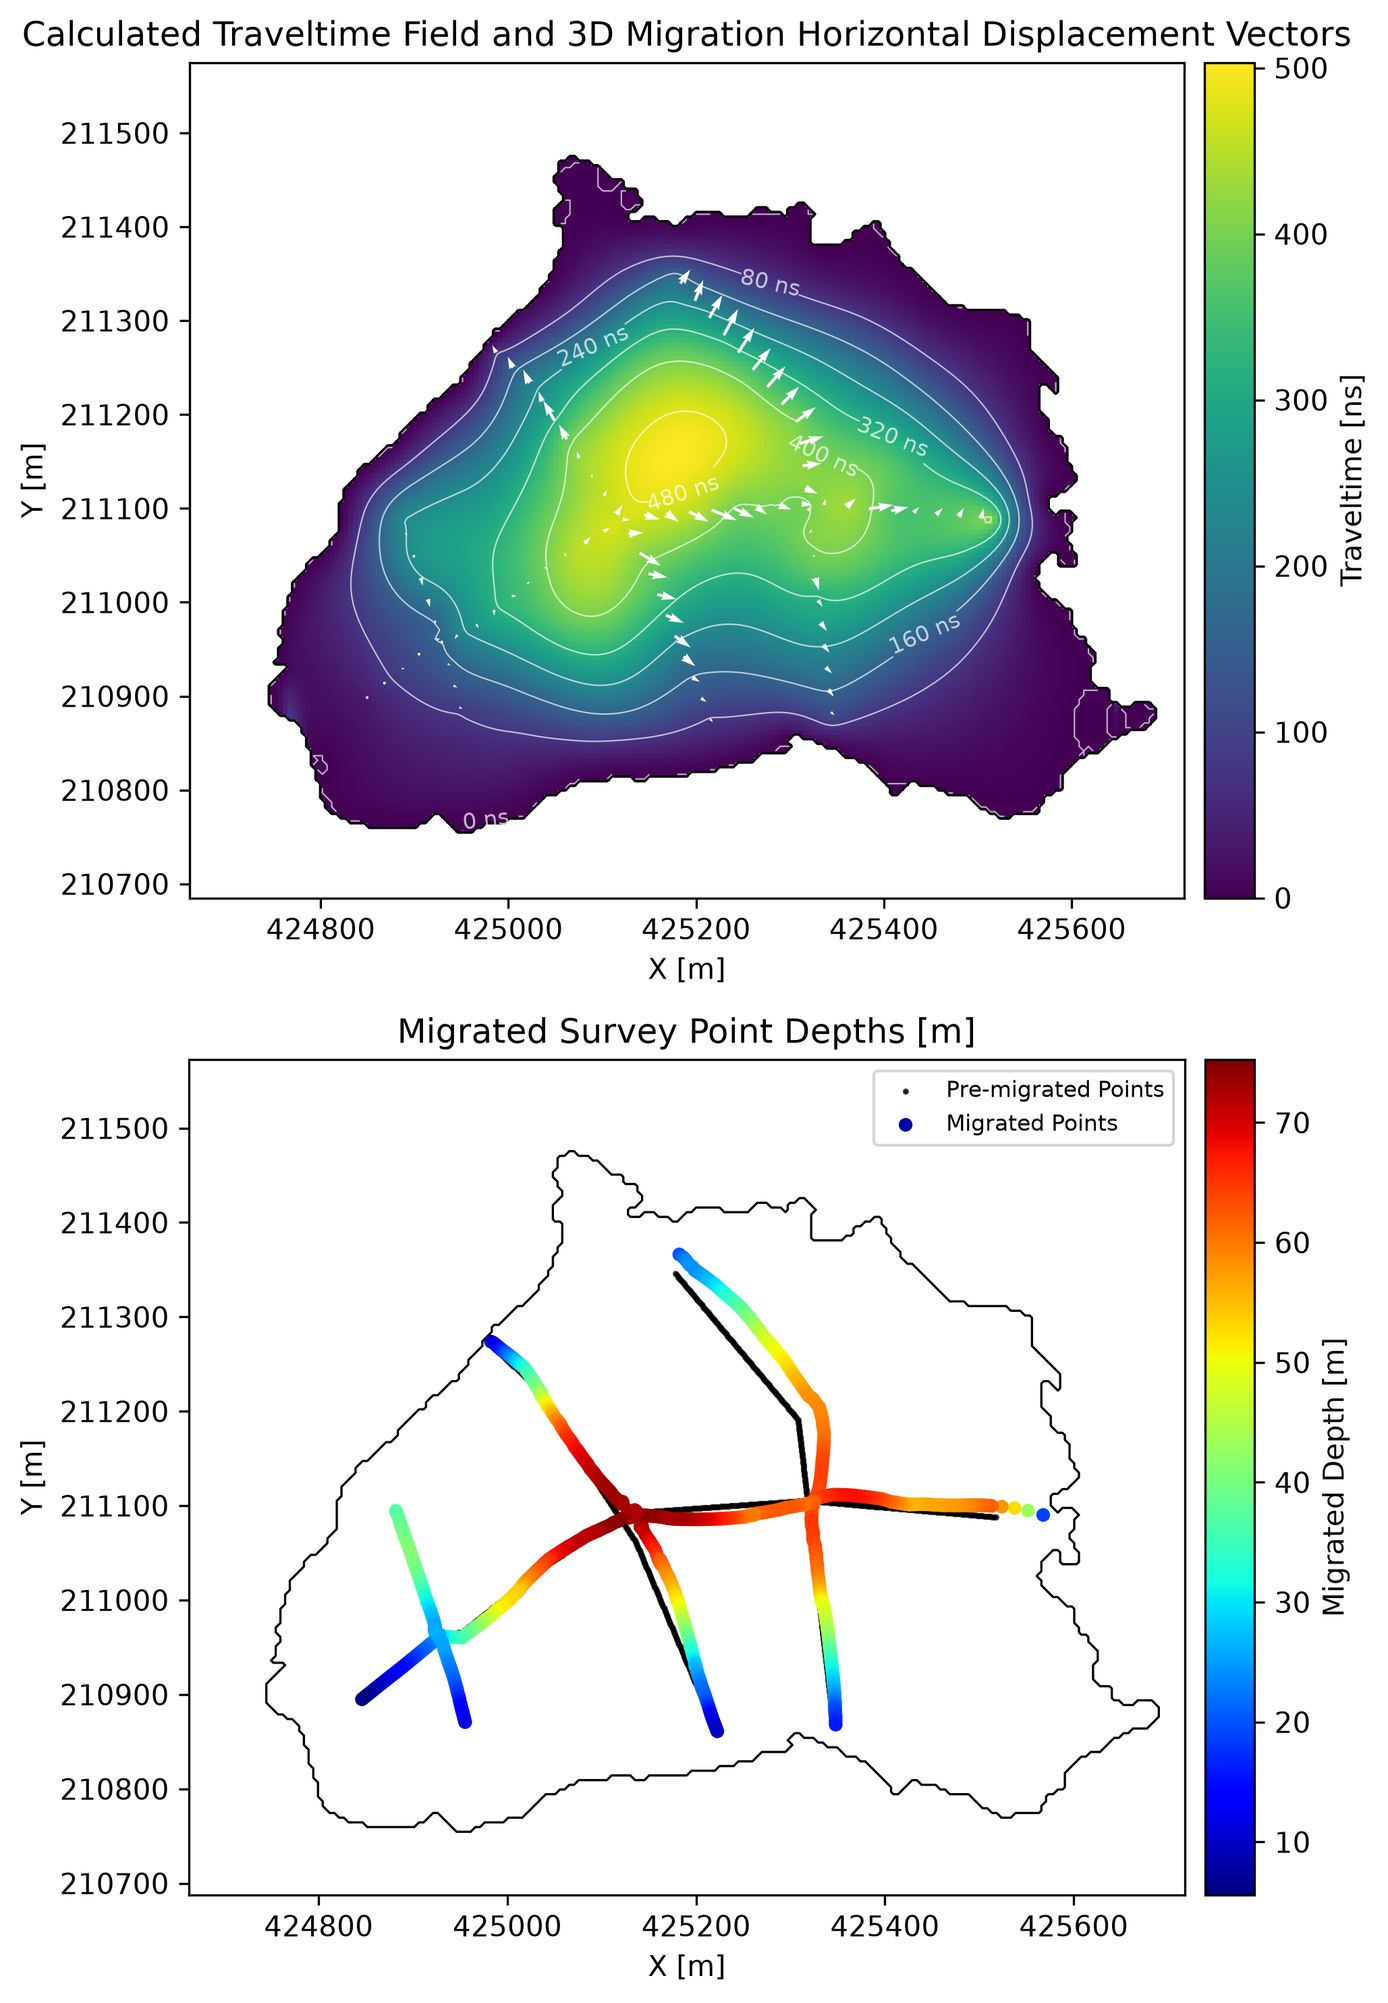
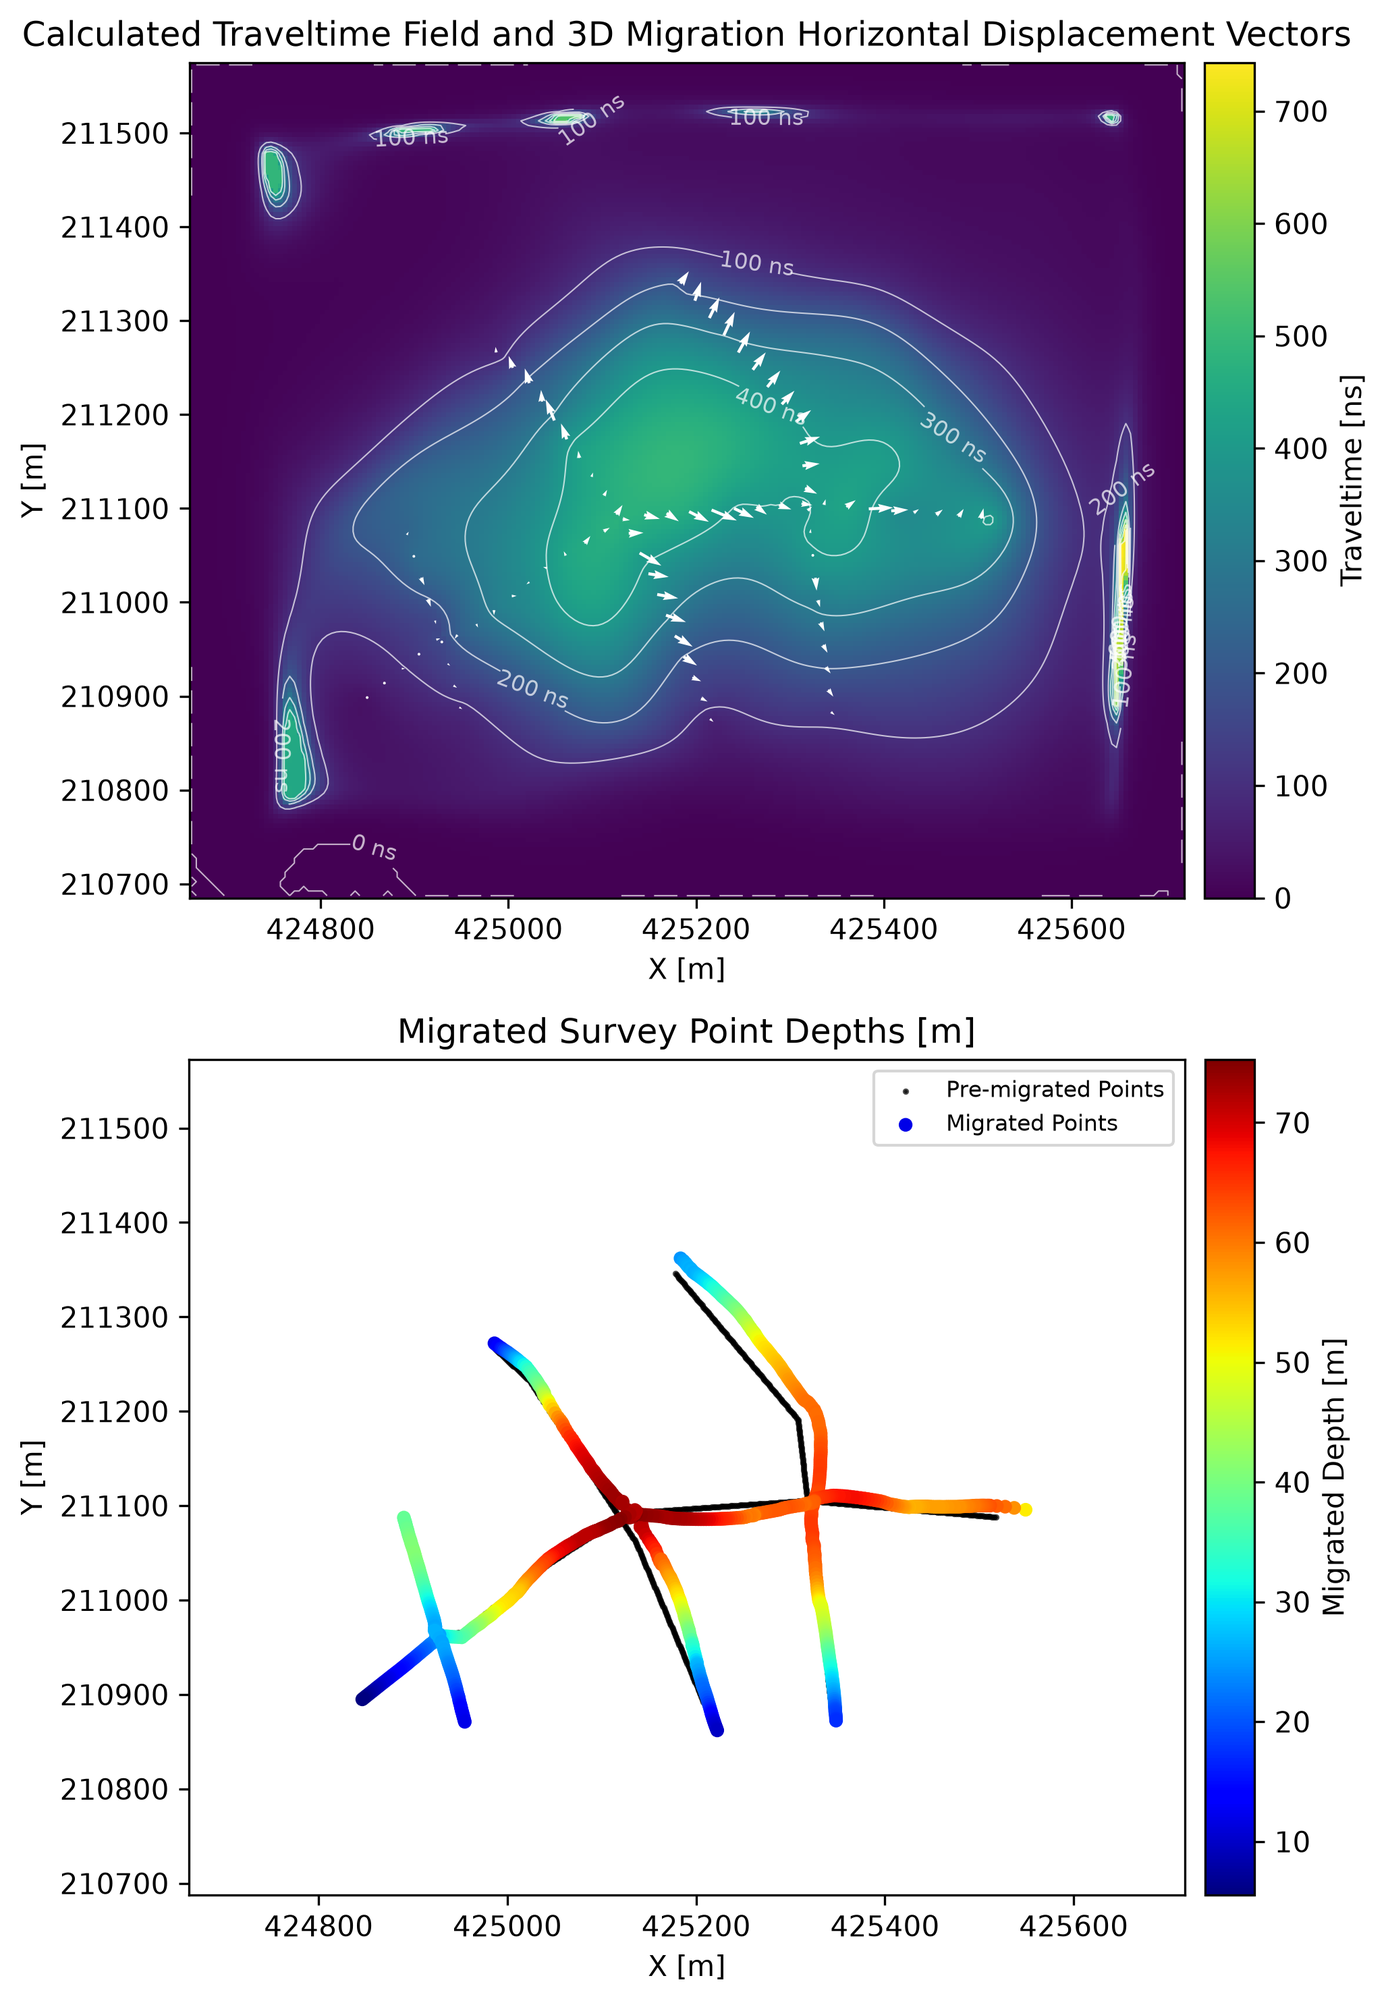
refactor: streamline SurveyPlanner, add DEM NaN boundary logging, & update docs
- Add automated DEM NaN boundary and rock outcrop delineation logging in pysole.raster (load_outline).

- Streamline SurveyPlanner init spatial metadata handling and return dictionary keys.

- Update pipeline.py to safely retrieve SIA depth grids across execution modes.

- Expand docs/drift_analyzer_&_survey_planner.md with DEM NaN boundary fallback documentation.

diff --git a/src/pysole/raster.py b/src/pysole/raster.py
@@ -645,7 +645,20 @@ def load_outline(
     to the outer boundary shell for processing. Performs strict CRS alignment check against DEM.
     """
     if outline_input is None:
-        return ~np.isnan(dem_grid)
+        nan_mask = np.isnan(dem_grid)
+        nan_count = int(np.count_nonzero(nan_mask))
+        if nan_count > 0:
+            valid_count = dem_grid.size - nan_count
+            logger.info(
+                f"No boundary outline provided. Delineated active body boundary and rock outcrops "
+                f"from DEM NaN values ({nan_count:,} NaN pixels, {valid_count:,} valid domain pixels)."
+            )
+        else:
+            logger.warning(
+                "No boundary outline provided and no NaN values found in DEM. "
+                "Entire DEM grid rectangle will be treated as the active domain without boundary constraints."
+            )
+        return ~nan_mask
 
     if isinstance(outline_input, np.ndarray):
         if outline_input.dtype == bool:
@@ -656,41 +669,40 @@ def load_outline(
     height, width = dem_grid.shape
     bounds = meta.get("bounds", (0.0, 0.0, float(width), float(height)))
 
-    if outline_input is not None and not isinstance(outline_input, np.ndarray):
-        ext = Path(outline_input).suffix.lower()
+    ext = Path(outline_input).suffix.lower()
 
-        # 1. Shapefile / GeoJSON / GeoPackage vector polygons with interior holes (nunataks)
-        if ext in [".shp", ".geojson", ".gpkg"]:
-            try:
-                import geopandas as gpd
-                from rasterio import features
-                from rasterio.transform import from_bounds
+    # 1. Shapefile / GeoJSON / GeoPackage vector polygons with interior holes (nunataks)
+    if ext in [".shp", ".geojson", ".gpkg"]:
+        try:
+            import geopandas as gpd
+            from rasterio import features
+            from rasterio.transform import from_bounds
 
-                gdf = gpd.read_file(outline_input)
+            gdf = gpd.read_file(outline_input)
 
-                # Check CRS alignment against DEM
-                dem_crs = meta.get("crs")
-                if dem_crs is not None and gdf.crs is not None:
-                    check_crs_alignment(dem_crs, gdf.crs)
+            # Check CRS alignment against DEM
+            dem_crs = meta.get("crs")
+            if dem_crs is not None and gdf.crs is not None:
+                check_crs_alignment(dem_crs, gdf.crs)
 
-                transform = meta.get("transform")
-                if transform is None:
-                    transform = from_bounds(*bounds, width, height)
+            transform = meta.get("transform")
+            if transform is None:
+                transform = from_bounds(*bounds, width, height)
 
-                geoms = validate_and_extract_polygons(gdf)
-                shapes = [(geom, 1) for geom in geoms]
-                mask = features.rasterize(
-                    shapes=shapes,
-                    out_shape=(height, width),
-                    transform=transform,
-                    fill=0,
-                    dtype=np.uint8,
-                )
-                return mask.astype(bool)
-            except ValueError:
-                raise
-            except Exception:
-                pass
+            geoms = validate_and_extract_polygons(gdf)
+            shapes = [(geom, 1) for geom in geoms]
+            mask = features.rasterize(
+                shapes=shapes,
+                out_shape=(height, width),
+                transform=transform,
+                fill=0,
+                dtype=np.uint8,
+            )
+            return mask.astype(bool)
+        except ValueError:
+            raise
+        except Exception:
+            pass
 
         # 2. Text / CSV polygon coordinates (supports NaN-separated exterior and interior hole rings & text headers)
         try:

diff --git a/src/pysole/survey_planner.py b/src/pysole/survey_planner.py
@@ -13,7 +13,8 @@ import numpy as np
 import matplotlib.pyplot as plt
 
 from .logging import logger
-from .raster import BedrockMap, GridGeometry
+from .plotting import _save_figure
+from .raster import BedrockMap, GridGeometry, load_dem, load_outline
 from .smoothing import compute_gradients, fft_gaussian_smooth
 
 
@@ -43,18 +44,27 @@ class SurveyPlanner:
         ice_density: float = 900.0,
         g: float = 9.81,
     ):
-        self.dem = dem if isinstance(dem, np.ndarray) else np.asarray(dem)
+        if isinstance(dem, (str, Path)):
+            self.dem, self.meta = load_dem(dem, dx=dx, dy=dy, bounds=bounds, crs=crs)
+        else:
+            self.dem = np.asarray(dem)
+            ny, nx = self.dem.shape
+            computed_bounds = bounds or (0.0, 0.0, float(nx * dx), float(ny * dy))
+            self.meta = {"dx": dx, "dy": dy, "bounds": computed_bounds, "crs": crs}
+
+        self.dx = float(self.meta.get("dx", dx))
+        self.dy = float(self.meta.get("dy", dy))
+        self.bounds = self.meta.get("bounds", bounds or (0.0, 0.0, float(self.dem.shape[1] * self.dx), float(self.dem.shape[0] * self.dy)))
+        self.crs = self.meta.get("crs", crs)
+
         self.outline = outline
-        self.dx = dx
-        self.dy = dy
-        self.bounds = bounds or (0.0, 0.0, float(dem.shape[1] * dx), float(dem.shape[0] * dy))
-        self.crs = crs
+        self.outline_mask = load_outline(outline, self.dem, self.meta)
         self.ice_density = ice_density
         self.g = g
 
     def compute_synthetic_sia_depth(
         self,
-        kc: float = 3.0,
+        kc: float = 0.5,
         tau_0: float = 100e3,
         slope_floor_deg: float = 5.0,
     ) -> np.ndarray:
@@ -71,17 +81,16 @@ class SurveyPlanner:
         # SIA ice thickness equation: D = tau_0 / (rho * g * sin(alpha))
         d_sia = tau_0 / (self.ice_density * self.g * np.sin(slope_clamped))
 
-        # Apply outline mask if available
-        if self.outline is not None:
-            if isinstance(self.outline, np.ndarray) and self.outline.shape == self.dem.shape:
-                d_sia[~self.outline.astype(bool)] = 0.0
+        # Apply outline mask and NaN DEM terrain masking
+        d_sia[~self.outline_mask] = 0.0
+        d_sia[np.isnan(self.dem)] = 0.0
 
         return np.maximum(d_sia, 0.0)
 
     def generate_survey_tracks(
         self,
         d_sia: np.ndarray,
-        max_length_km: float = 10.0,
+        max_length_km: float = 5.0,
     ) -> list[PlannedProfileTrack]:
         """
         Generates central longitudinal flowline and transverse cross-profiles.
@@ -189,9 +198,9 @@ class SurveyPlanner:
 
     def plan_survey(
         self,
-        kc: float = 3.0,
+        kc: float = 0.5,
         tau_0: float = 100e3,
-        max_length_km: float = 10.0,
+        max_length_km: float = 5.0,
         output_prefix: str = "final",
         output_dir: str | Path | None = None,
         plots_dir: str | Path | None = None,
@@ -256,13 +265,13 @@ class SurveyPlanner:
         ax.set_xlabel("X [m]")
         ax.set_ylabel("Y [m]")
         ax.legend(loc="upper right")
-        from .plotting import _save_figure
         _save_figure(plt, fig_dir, f"{file_prefix}_survey_plan_map.png")
         plt.close()
 
         return {
             "d_sia": d_sia,
             "sia_grid": d_sia,
+            "sia_modelled_depth": d_sia,
             "tracks": tracks,
             "saved_raster": saved_raster,
             "saved_geojson": saved_geojson,

diff --git a/src/pysole/config.py b/src/pysole/config.py
@@ -387,9 +387,9 @@ def main_cli() -> None:
     plan_parser = subparsers.add_parser("plan-survey", help="Run the unprobed glacier survey planner.")
     plan_parser.add_argument("--dem", required=True, help="Path to surface DEM raster.")
     plan_parser.add_argument("--outline", default=None, help="Path to glacier boundary outline.")
-    plan_parser.add_argument("--kc", type=float, default=3.0, help="DEM smoothing parameter k_c.")
+    plan_parser.add_argument("--kc", type=float, default=0.5, help="DEM smoothing parameter k_c.")
     plan_parser.add_argument("--tau", type=float, default=100.0, help="Target basal shear stress tau_0 in kPa.")
-    plan_parser.add_argument("--max-km", type=float, default=10.0, help="Maximum total survey length budget in km.")
+    plan_parser.add_argument("--max-km", type=float, default=5.0, help="Maximum total survey length budget in km.")
     plan_parser.add_argument("--prefix", default="final", help="Output prefix.")
     plan_parser.add_argument("--out-dir", default=None, help="Output directory.")
     plan_parser.add_argument("--plots-dir", default=None, help="Plots output directory.")

diff --git a/tests/test_raster.py b/tests/test_raster.py
@@ -146,6 +146,30 @@ class TestRasterWuk(unittest.TestCase):
             if os.path.exists(tmp_path):
                 os.remove(tmp_path)
 
+    def test_load_outline_none_with_nans(self):
+        dem = np.array([
+            [np.nan, 100.0, 105.0, np.nan],
+            [110.0, np.nan, 115.0, 120.0],
+            [np.nan, 125.0, 130.0, np.nan],
+        ], dtype=np.float64)
+        meta = {"dx": 10.0, "dy": 10.0, "bounds": (0.0, 0.0, 40.0, 30.0)}
+        mask = load_outline(None, dem, meta)
+        self.assertEqual(mask.shape, dem.shape)
+        self.assertEqual(np.sum(mask), 7)
+        self.assertFalse(mask[0, 0])
+        self.assertFalse(mask[1, 1])
+        self.assertTrue(mask[0, 1])
+
+    def test_load_outline_none_without_nans(self):
+        dem = np.array([
+            [100.0, 105.0],
+            [110.0, 115.0],
+        ], dtype=np.float64)
+        meta = {"dx": 10.0, "dy": 10.0, "bounds": (0.0, 0.0, 20.0, 20.0)}
+        mask = load_outline(None, dem, meta)
+        self.assertEqual(mask.shape, dem.shape)
+        self.assertTrue(np.all(mask))
+
 
 if __name__ == "__main__":
     unittest.main()

diff --git a/src/pysole/pipeline.py b/src/pysole/pipeline.py
@@ -200,8 +200,9 @@ def run_from_config(
 
         plan_res = solver.plan_survey()
 
+        sia_grid = plan_res.get("sia_modelled_depth") or plan_res.get("sia_grid") or plan_res.get("d_sia")
         final_raster = BedrockMap(
-            grid=plan_res["sia_modelled_depth"],
+            grid=sia_grid,
             bounds=solver.bounds,
             crs=solver.meta.get("crs"),
             transform=solver.meta.get("transform"),

diff --git a/src/pysole/solver.py b/src/pysole/solver.py
@@ -1237,9 +1237,9 @@ class Solver:
 
     def plan_survey(
         self,
-        kc: float = 3.0,
+        kc: float = 0.5,
         tau_0: float = 100e3,
-        max_length_km: float = 10.0,
+        max_length_km: float = 5.0,
         output_prefix: str | None = None,
         output_dir: str | Path | None = None,
         plots_dir: str | Path | None = None,

diff --git a/docs/drift_analyzer_&_survey_planner.md b/docs/drift_analyzer_&_survey_planner.md
@@ -1,4 +1,4 @@
-# PySole Drift Analyzer & Unprobed Glacier Survey Planner Methodological Guide
+# PySole Drift Analyzer & Survey Planner Methodological Guide
 
 This document provides a comprehensive methodological and mathematical reference for two key modules in `PySole`:
 1. **Universal Kriging Drift Analyzer (`DriftAnalyzer`)**: An automated diagnostic and model selection engine for evaluating and ranking spatial drift models.
@@ -166,9 +166,9 @@ The `DriftAnalyzer` incorporates domain-specific glaciological safeguards:
 
 ---
 
-## 2. Unprobed Glacier Survey Planner (`SurveyPlanner`)
+## 2. Survey Planner (`SurveyPlanner`)
 
-When a user provides a surface DEM (`dem_path`) and glacier outline (`outline_path`), but **no survey dataset** (`survey_data_path = null`), `PySole` automatically dispatches the **Unprobed Glacier Survey Planner**.
+When a user provides a surface DEM (`dem_path`) and glacier outline (`outline_path`), but **no survey dataset** (`survey_data_path = null`), `PySole` automatically dispatches the **Survey Planner**.
 
 ```
 [ Surface DEM & Glacier Outline ]
@@ -196,10 +196,34 @@ When a user provides a surface DEM (`dem_path`) and glacier outline (`outline_pa
 
 ---
 
-### 2.1 Synthetic SIA Ice Thickness Modeling
+### 2.1 Required User Input Data & Default Parameters
+
+To execute forward campaign survey planning on unprobed glaciers, `SurveyPlanner` requires two core spatial input files:
+
+1. **Surface DEM (`dem` / `dem_path`)**: High-resolution Digital Elevation Model raster (GeoTIFF `.tif`, ESRI ASCII `.asc`, or NumPy `ndarray`) containing surface elevation values $Z_{\text{dem}}(x,y)$ [m].
+2. **Glacier Boundary Outline (`outline` / `outline_path`, Optional)**: Vector boundary polygon (Shapefile `.shp`, GeoJSON `.geojson`, or 2D boolean mask) delineating the active extent of the creeping body. If `outline_path` is `null` (or omitted), `PySole` automatically detects `NaN` entries in the DEM raster to construct the active domain mask:
+   - **Outer Perimeter Margins**: Exterior `NaN` padding surrounding the creeping body defines the outer boundary shell.
+   - **Interior Rock Outcrops (Nunataks)**: Interior `NaN` entries within the glacier domain are automatically delineated as rock outcrop holes where SIA ice thickness is masked to zero ($D_{\text{SIA}} = 0\text{ m}$).
+   - **Automated Logging**: Emits an `INFO` log detailing the count of `NaN` pixels and valid domain pixels. If no `NaN` values exist in the DEM and no outline is provided, emits a `WARNING` indicating that the full rectangular grid will be treated as active domain without boundary constraints.
+
+#### Default Engine Parameters
+When optional parameters are omitted, `SurveyPlanner` enforces the following default values:
+
+| Parameter | Identifier / Argument | Default Value | Physical / Technical Description |
+| :--- | :--- | :--- | :--- |
+| **FFT DEM Cutoff Wavelength** | `kc` / `--kc` | **`0.5`** rad/m | Corner wavenumber frequency cutoff ($k_c = 0.5\text{ rad/m}$, corresponding to cutoff wavelength $\lambda_c = 2\pi / k_c \approx 12.57\text{ m}$) applied during frequency-domain Gaussian DEM surface smoothing. |
+| **Nominal Basal Shear Stress** | `tau_0` / `tau_p` / `--tau` | **`100`** kPa ($100,000\text{ Pa}$) | Target nominal basal shear stress ($\tau_0 = 100\text{ kPa}$) used in Shallow Ice Approximation (SIA) ice thickness depth modeling $D_{\text{SIA}}(x,y) = \frac{\tau_0}{\rho g \sin \alpha}$. |
+| **Total Survey Track Budget** | `max_length_km` / `max_km` / `--max-km` | **`5.0`** km ($5,000\text{ m}$) | Maximum total survey length budget ($L_{\text{max}} = 5.0\text{ km}$) allocated across longitudinal flowlines and transverse cross-profiles. |
+| **Minimum Surface Slope Floor** | `slope_floor_deg` | `5.0`° | Minimum surface slope angle threshold ($\alpha_{\text{floor}} = 5^\circ$) to prevent numerical division singularities in low-gradient accumulation basins. |
+| **Ice Density** | `ice_density` | `900.0` kg/m³ | Bulk ice density ($\rho_{\text{ice}} = 900\text{ kg/m}^3$). |
+| **Gravitational Acceleration** | `g` | `9.81` m/s² | Standard gravitational acceleration ($g = 9.81\text{ m/s}^2$). |
+
+---
+
+### 2.2 Synthetic SIA Ice Thickness Modeling
 
 #### 1. Frequency-Domain Surface DEM Smoothing
-Raw DEM elevations $Z_{\text{dem}}(x,y)$ contain high-frequency micro-topography. `PySole` applies a 2D Gaussian low-pass filter in the frequency domain using spatial corner wavenumber $k_c$:
+Raw DEM elevations $Z_{\text{dem}}(x,y)$ contain high-frequency micro-topography. `PySole` applies a 2D Gaussian low-pass filter in the frequency domain using spatial corner wavenumber $k_c$ (default $k_c = 0.5\text{ rad/m}$):
 
 $$Z_{\text{smooth}, k_c}(x,y) = \text{Re}\left[ \mathcal{F}^{-1} \left( \mathcal{F}\left[ Z_{\text{dem}}(x,y) \right] \cdot \exp\left( -\frac{k_x^2 + k_y^2}{2 k_c^2} \right) \right) \right]$$
 
@@ -227,9 +251,9 @@ $$D_{\text{SIA}}(x,y) = 0 \quad \forall (x,y) \notin O(x,y)$$
 
 ---
 
-### 2.2 Survey Profile Track Layout Algorithm
+### 2.3 Survey Profile Track Layout Algorithm
 
-The survey planner automatically designs field campaign GPR/seismic tracks subject to a total track length budget $L_{\text{max}}$ (e.g., 10.0 km).
+The survey planner automatically designs field campaign GPR/seismic tracks subject to a total track length budget $L_{\text{max}}$ (default $L_{\text{max}} = 5.0\text{ km}$).
 
 #### 1. Central Longitudinal Flowline ($L_1$)
 - **Maximum Thickness Axis**: The planner identifies the primary ice flow column $j_{\text{center}}$ corresponding to maximum integrated synthetic ice volume:
@@ -252,7 +276,7 @@ The survey planner automatically designs field campaign GPR/seismic tracks subje
 
 ---
 
-### 2.3 Output Formats & Field Exports
+### 2.4 Output Formats & Field Exports
 
 The `SurveyPlanner` generates four field-ready deliverables:
 
@@ -302,6 +326,6 @@ pysole pysole.json --drift-analyzer --profile-col line_id
 # Force non-interactive batch mode
 pysole pysole.json --batch
 
-# Standalone Unprobed Glacier Survey Planning
-pysole plan-survey --dem surface_dem.tif --outline glacier_outline.shp --kc 3.0 --tau 100 --max-km 10.0 --output proposed_survey
+# Standalone Survey Planning (defaults: k_c=0.5, tau=100 kPa, max-km=5.0 km)
+pysole plan-survey --dem surface_dem.tif --outline glacier_outline.shp --kc 0.5 --tau 100 --max-km 5.0 --output proposed_survey
 ```
